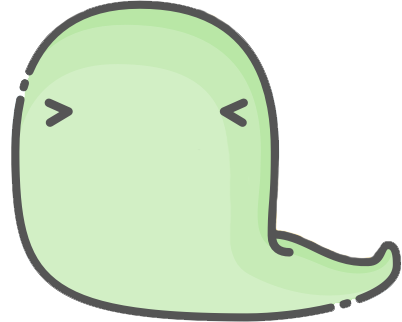
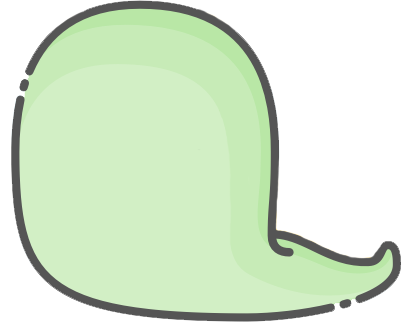
new face

Changed region(s): [[0.5373, 0.3106, 0.6269, 0.4037], [0.0896, 0.3106, 0.1791, 0.4037]]

diff --git a/index.html b/index.html
@@ -70,17 +70,55 @@
         animation: swingLeft .5s cubic-bezier(0.47, 0, 0.75, 0.72) infinite alternate;
     }
 
+    .dragon .eye {
+        position: absolute;
+        top: 39px;
+        width: 11px;
+        height: 11px;
+        background: url(./img/eye.png) no-repeat;
+        background-size: contain;
+        z-index: 12;
+    }
+
+    .dragon .eye.left {
+        left: 49px;
+    }
+
+    .dragon .eye.right {
+        left: 118px;
+        transform-origin: 50% 50%;
+        transform: rotate(180deg);
+    }
+
+    .dragon .blush {
+        position: absolute;
+        top: 46px;
+        width: 15px;
+        height: 9px;
+        background: url(./img/blush.png) no-repeat;
+        background-size: 100% 100%;
+        z-index: 11;
+        animation: blush .5s ease infinite alternate;
+    }
+
+    .dragon .blush.left {
+        left: 43px;
+    }
+
+    .dragon .blush.right {
+        left: 120px;
+    }
+
     .dragon .mouth {
         position: absolute;
         top: 52px;
-        left: 48px;
+        left: 49px;
         width: 78px;
         height: 56px;
         background: url(./img/mouth.png) no-repeat;
         background-size: 100%;
         z-index: 11;
         animation: openMouth 1s ease infinite;
-
     }
 
     .dragon .tail-sting {
@@ -169,6 +207,16 @@
         }
     }
 
+    @keyframes blush {
+        0% {
+            opacity: 0;
+        }
+
+        100% {
+            opacity: 1;
+        }
+    }
+
     @keyframes openMouth {
         0% {
             -webkit-clip-path: ellipse(20% 0% at 50% 0);
@@ -252,6 +300,10 @@
             <div class="body"></div>
             <div class="horn-left"></div>
             <div class="horn-right"></div>
+            <div class="eye left"></div>
+            <div class="eye right"></div>
+            <div class="blush left"></div>
+            <div class="blush right"></div>
             <div class="mouth"></div>
             <div class="tail-sting"></div>
         </div>
